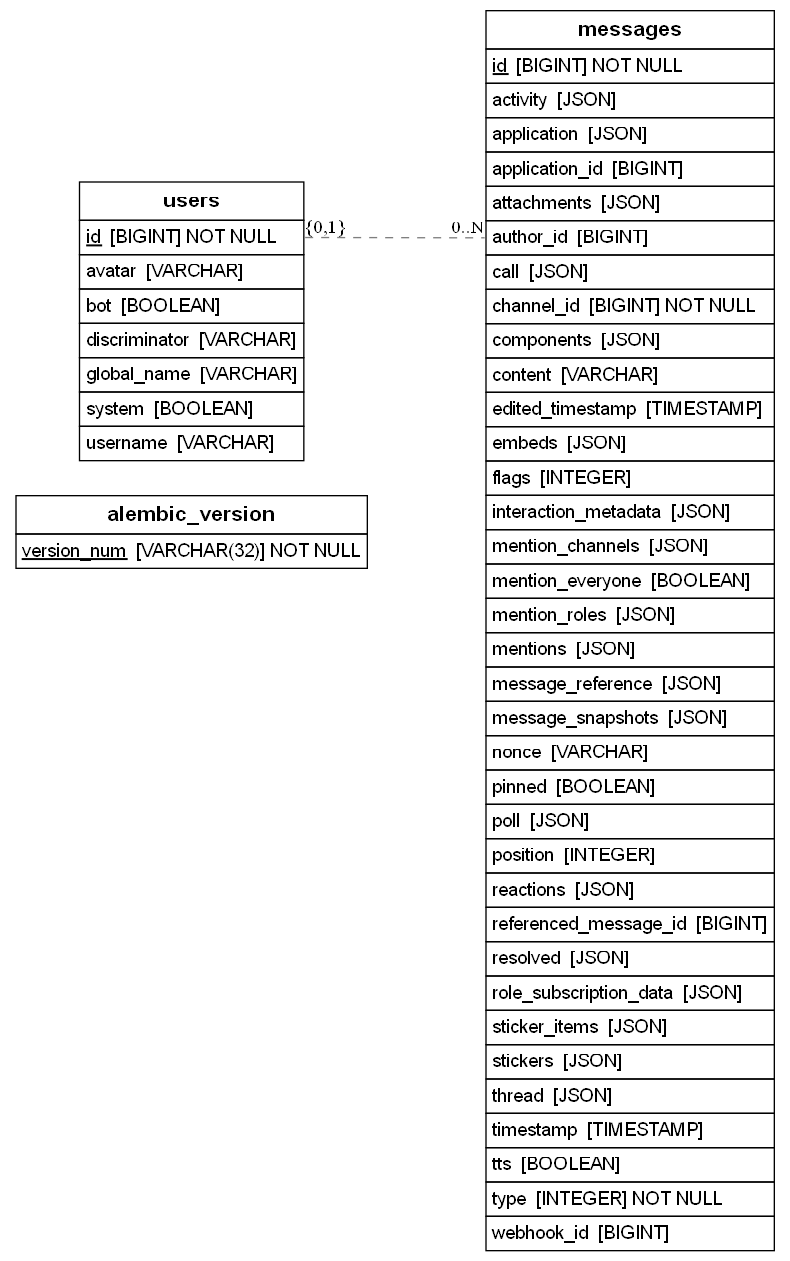
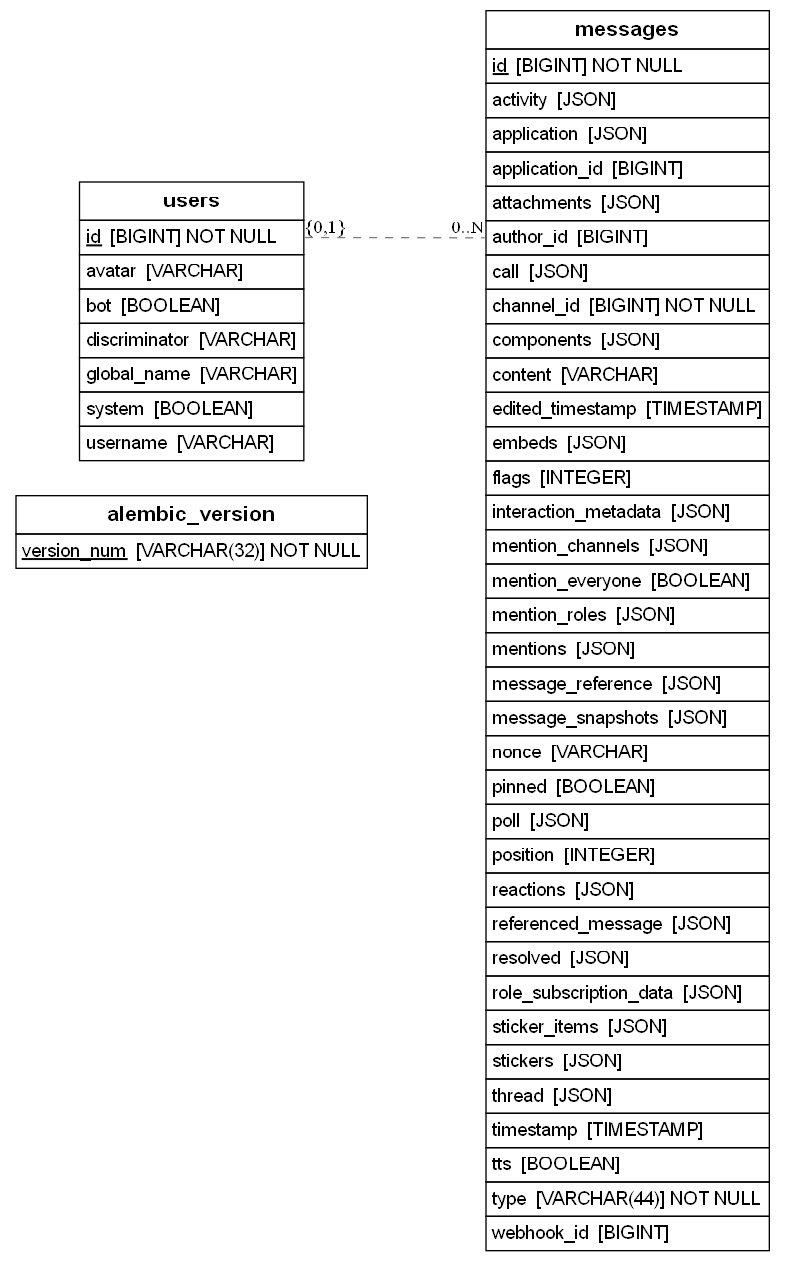
message reference

diff --git a/bot/utils/db_handler.py b/bot/utils/db_handler.py
@@ -1,9 +1,4 @@
-import sys
-from pathlib import Path
 import discord
-
-sys.path.insert(0, str(Path(__file__).parent.parent.parent))
-
 from sqlalchemy.future import select
 from db.connection import AsyncSessionLocal
 from db.queries.user import upsert_user
@@ -11,15 +6,16 @@ from db.queries.messages import create_message, update_message, delete_message
 from models.models import User, Message, MessageType
 from bot.utils.file_manager import download_attachment
 from datetime import datetime
+from .serialize_datetime import serialize_datetime
+
 
 async def handle_message_save(message: discord.Message):
-    """Save a message and its attachments to database."""
     if not message or not message.author:
         return
 
     async with AsyncSessionLocal() as db:
         try:
-            # Upsert user
+            # 1) Upsert user
             user_model = User(
                 id=int(message.author.id),
                 username=getattr(message.author, "name", None),
@@ -31,7 +27,7 @@ async def handle_message_save(message: discord.Message):
             )
             saved_user = await upsert_user(db, user_model)
 
-            # Save attachments
+            # 2) Save attachments
             attachments_list = []
             for attachment in message.attachments:
                 local_path, success = await download_attachment(
@@ -49,22 +45,77 @@ async def handle_message_save(message: discord.Message):
                     "is_downloaded": success,
                 })
 
-            message_type = getattr(message, "type", None)
-            if isinstance(message_type, int):
-                message_type = MessageType.DEFAULT
-            elif isinstance(message_type, str):
-                message_type = MessageType[message_type.upper()]
-            else:
-                message_type = MessageType.DEFAULT
+            # 3) Save embeds
+            embeds_list = [embed.to_dict() for embed in message.embeds]
 
+            # 4) Detect message type
+            raw_type = getattr(message, "type", None)
+            if isinstance(raw_type, int):
+                message_type = MessageType.DEFAULT
+            else:
+                try:
+                    message_type = MessageType[raw_type.name]
+                except:
+                    message_type = MessageType.DEFAULT
+
+            # 5) Handle message_reference and referenced_message
+            message_reference_data = getattr(message, "reference", None)
+            message_reference = None
+            referenced_message = None
+
+            if message_reference_data:
+                # Save reference IDs
+                message_reference = {
+                    "message_id": getattr(message_reference_data, "message_id", None),
+                    "channel_id": getattr(message_reference_data, "channel_id", None),
+                    "guild_id": getattr(message_reference_data, "guild_id", None),
+                    "fail_if_not_exists": getattr(message_reference_data, "fail_if_not_exists", True)
+                }
+
+                # Try getting full referenced message
+                ref_msg = getattr(message, "referenced_message", None)
+                if not ref_msg and message_reference.get("channel_id") and message_reference.get("message_id"):
+                    try:
+                        ref_channel = message.guild.get_channel(message_reference["channel_id"]) \
+                            or await message.guild.fetch_channel(message_reference["channel_id"])
+                        ref_msg = await ref_channel.fetch_message(message_reference["message_id"])
+                    except:
+                        ref_msg = None
+
+                if ref_msg:
+                    referenced_message = {
+                        "id": int(ref_msg.id),
+                        "channel_id": int(ref_msg.channel.id) if getattr(ref_msg, "channel", None) else None,
+                        "author": {
+                            "id": int(ref_msg.author.id),
+                            "username": getattr(ref_msg.author, "name", None),
+                            "discriminator": getattr(ref_msg.author, "discriminator", None),
+                            "global_name": getattr(ref_msg.author, "global_name", None),
+                            "avatar": str(ref_msg.author.avatar.url) if getattr(ref_msg.author, "avatar", None) else None,
+                            "bot": bool(getattr(ref_msg.author, "bot", False)),
+                            "system": bool(getattr(ref_msg.author, "system", False)),
+                        },
+                        "content": ref_msg.content,
+                        "attachments": [att.to_dict() for att in getattr(ref_msg, "attachments", [])],
+                        "embeds": [emb.to_dict() for emb in getattr(ref_msg, "embeds", [])],
+                        "timestamp": serialize_datetime(getattr(ref_msg, "created_at", None)),
+                        "edited_timestamp": serialize_datetime(getattr(ref_msg, "edited_at", None)),
+                        "type": getattr(ref_msg, "type", None).name if getattr(ref_msg, "type", None) else None
+                    }
+
+
+            # 6) Build message model
             message_model = Message(
                 id=int(message.id),
-                channel_id=int(message.channel.id) if getattr(message, "channel", None) else None,
+                channel_id=int(message.channel.id),
                 author_id=saved_user.id,
                 content=message.content,
                 attachments=attachments_list,
+                embeds=embeds_list,
                 type=message_type,
-                timestamp=getattr(message, "created_at", datetime.utcnow())
+                timestamp=getattr(message, "created_at", datetime.utcnow()),
+                message_reference=message_reference,
+                referenced_message=referenced_message
             )
 
             await create_message(db, message_model)
@@ -84,32 +135,84 @@ async def handle_message_update(message: discord.Message):
                 "edited_timestamp": getattr(message, "edited_at", datetime.utcnow()),
             }
 
-            # Update attachments if changed
-            if message.attachments:
-                attachments_list = []
-                for attachment in message.attachments:
-                    local_path, success = await download_attachment(
-                        attachment.url,
-                        attachment.filename,
-                        message.id
-                    )
-                    attachments_list.append({
-                        "id": attachment.id,
-                        "filename": attachment.filename,
-                        "url": attachment.url,
-                        "content_type": getattr(attachment, "content_type", None),
-                        "size": getattr(attachment, "size", None),
-                        "local_path": local_path if success else None,
-                        "is_downloaded": success,
-                    })
-                updates["attachments"] = attachments_list
+            # --- Update attachments ---
+            attachments_list = []
+            for attachment in message.attachments:
+                local_path, success = await download_attachment(
+                    attachment.url,
+                    attachment.filename,
+                    message.id
+                )
+                attachments_list.append({
+                    "id": attachment.id,
+                    "filename": attachment.filename,
+                    "url": attachment.url,
+                    "content_type": getattr(attachment, "content_type", None),
+                    "size": getattr(attachment, "size", None),
+                    "local_path": local_path if success else None,
+                    "is_downloaded": success,
+                })
+            updates["attachments"] = attachments_list
 
-            await update_message(db, message_id=int(message.id), author_id=int(message.author.id), updates=updates)
+            # --- Update embeds ---
+            embeds_list = [embed.to_dict() for embed in message.embeds]
+            updates["embeds"] = embeds_list
+
+            # --- Update message_reference and referenced_message ---
+            message_reference_data = getattr(message, "reference", None)
+            if message_reference_data:
+                message_reference = {
+                    "message_id": getattr(message_reference_data, "message_id", None),
+                    "channel_id": getattr(message_reference_data, "channel_id", None),
+                    "guild_id": getattr(message_reference_data, "guild_id", None),
+                    "fail_if_not_exists": getattr(message_reference_data, "fail_if_not_exists", True)
+                }
+                updates["message_reference"] = message_reference
+
+                # Try fetching referenced message
+                ref_msg = getattr(message, "referenced_message", None)
+                if not ref_msg and message_reference.get("channel_id") and message_reference.get("message_id"):
+                    try:
+                        ref_channel = message.guild.get_channel(message_reference["channel_id"]) \
+                            or await message.guild.fetch_channel(message_reference["channel_id"])
+                        ref_msg = await ref_channel.fetch_message(message_reference["message_id"])
+                    except:
+                        ref_msg = None
+
+                if ref_msg:
+                    referenced_message = {
+                        "id": int(ref_msg.id),
+                        "channel_id": int(ref_msg.channel.id) if getattr(ref_msg, "channel", None) else None,
+                        "author": {
+                            "id": int(ref_msg.author.id),
+                            "username": getattr(ref_msg.author, "name", None),
+                            "discriminator": getattr(ref_msg.author, "discriminator", None),
+                            "global_name": getattr(ref_msg.author, "global_name", None),
+                            "avatar": str(ref_msg.author.avatar.url) if getattr(ref_msg.author, "avatar", None) else None,
+                            "bot": bool(getattr(ref_msg.author, "bot", False)),
+                            "system": bool(getattr(ref_msg.author, "system", False)),
+                        },
+                        "content": ref_msg.content,
+                        "attachments": [att.to_dict() for att in getattr(ref_msg, "attachments", [])],
+                        "embeds": [emb.to_dict() for emb in getattr(ref_msg, "embeds", [])],
+                        "timestamp": serialize_datetime(getattr(ref_msg, "created_at", None)),
+                        "edited_timestamp": serialize_datetime(getattr(ref_msg, "edited_at", None)),
+                        "type": getattr(ref_msg, "type", None).name if getattr(ref_msg, "type", None) else None
+                    }
+                    updates["referenced_message"] = referenced_message
+
+            # Save updates
+            await update_message(
+                db,
+                message_id=int(message.id),
+                author_id=int(message.author.id),
+                updates=updates
+            )
+
             print(f"Message {message.id} updated successfully.")
 
         except Exception as e:
             print(f"Error updating message: {e}")
-
 
 async def handle_message_delete(message: discord.Message):
     if not message or not message.author:

diff --git a/bot/utils/file_manager.py b/bot/utils/file_manager.py
@@ -1,28 +1,12 @@
-"""
-File manager - Download and store Discord attachments locally
-Prevents attachment URLs from expiring
-"""
 import aiohttp
 import os
 from pathlib import Path
 from datetime import datetime
 
-# Create attachments directory if it doesn't exist
 ATTACHMENTS_DIR = Path(__file__).parent.parent / "attachments"
 ATTACHMENTS_DIR.mkdir(exist_ok=True)
 
 async def download_attachment(url: str, filename: str, message_id: int) -> tuple[str, bool]:
-    """
-    Download a Discord attachment and store it locally
-    
-    Args:
-        url: Discord attachment URL
-        filename: Original filename
-        message_id: Discord message ID (for organizing files)
-    
-    Returns:
-        tuple: (local_path, success_bool)
-    """
     try:
         # Create message-specific directory
         msg_dir = ATTACHMENTS_DIR / f"msg_{message_id}"
@@ -53,7 +37,6 @@ async def download_attachment(url: str, filename: str, message_id: int) -> tuple
         return "", False
 
 def get_attachment_path(message_id: int, filename: str) -> Path:
-    """Get the local path for an attachment"""
     msg_dir = ATTACHMENTS_DIR / f"msg_{message_id}"
     safe_filename = "".join(c for c in filename if c.isalnum() or c in "._-")
     return msg_dir / safe_filename
@@ -64,30 +47,3 @@ def get_attachment_size(local_path: str) -> int:
         return os.path.getsize(local_path)
     except:
         return 0
-
-def cleanup_old_attachments(days: int = 30) -> int:
-    """
-    Remove attachments older than specified days
-    
-    Args:
-        days: Number of days to keep attachments
-    
-    Returns:
-        Number of files deleted
-    """
-    if not ATTACHMENTS_DIR.exists():
-        return 0
-    
-    deleted_count = 0
-    cutoff_time = datetime.now().timestamp() - (days * 86400)
-    
-    for file_path in ATTACHMENTS_DIR.rglob("*"):
-        if file_path.is_file():
-            if file_path.stat().st_mtime < cutoff_time:
-                try:
-                    file_path.unlink()
-                    deleted_count += 1
-                except:
-                    pass
-    
-    return deleted_count

diff --git a/migrations/versions/695bcf2b0305_message_reference_reply.py b/migrations/versions/695bcf2b0305_message_reference_reply.py
@@ -1,0 +1,34 @@
+"""message reference(reply)
+
+Revision ID: 695bcf2b0305
+Revises: cc07737c7f38
+Create Date: 2025-11-20 15:14:06.498659
+
+"""
+from typing import Sequence, Union
+
+from alembic import op
+import sqlalchemy as sa
+
+
+# revision identifiers, used by Alembic.
+revision: str = '695bcf2b0305'
+down_revision: Union[str, Sequence[str], None] = 'cc07737c7f38'
+branch_labels: Union[str, Sequence[str], None] = None
+depends_on: Union[str, Sequence[str], None] = None
+
+
+def upgrade() -> None:
+    """Upgrade schema."""
+    # ### commands auto generated by Alembic - please adjust! ###
+    op.add_column('messages', sa.Column('referenced_message', sa.JSON(), nullable=True))
+    op.drop_column('messages', 'referenced_message_id')
+    # ### end Alembic commands ###
+
+
+def downgrade() -> None:
+    """Downgrade schema."""
+    # ### commands auto generated by Alembic - please adjust! ###
+    op.add_column('messages', sa.Column('referenced_message_id', sa.BIGINT(), autoincrement=False, nullable=True))
+    op.drop_column('messages', 'referenced_message')
+    # ### end Alembic commands ###

diff --git a/bot/commands/embed.py b/bot/commands/embed.py
@@ -1,0 +1,15 @@
+from discord.ext import commands
+import discord
+
+@commands.command()
+async def embed(ctx):
+    embed = discord.Embed(
+        title="Hello!",
+        description="This is an embed example.",
+        color=discord.Color.blue()
+    )
+    embed.add_field(name="Field 1", value="Value 1", inline=False)
+    embed.set_footer(text="Footer text")
+    embed.set_thumbnail(url="https://example.com/image.png")
+
+    await ctx.send(embed=embed)

diff --git a/models/models.py b/models/models.py
@@ -111,7 +111,7 @@ class Message(Base):
     flags = Column(Integer, nullable=True)
 
     message_reference = Column(MutableDict.as_mutable(JSON), nullable=True)
-    referenced_message_id = Column(BigInteger, nullable=True)
+    referenced_message = Column(MutableDict.as_mutable(JSON), nullable=True) 
     interaction_metadata = Column(MutableDict.as_mutable(JSON), nullable=True)
 
     components = Column(JSON, nullable=True)

diff --git a/bot/commands/__init__.py b/bot/commands/__init__.py
@@ -1,8 +1,10 @@
 from .ask import ask
 from .askfile import askfile
-
+from .embed import embed
+from .list import list
 
 def setup_commands(bot):
-    """Register all commands in a clean way."""
     bot.add_command(ask)
     bot.add_command(askfile)
+    bot.add_command(embed)
+    bot.add_command(list)

diff --git a/bot/utils/serialize_datetime.py b/bot/utils/serialize_datetime.py
@@ -1,0 +1,6 @@
+from datetime import datetime
+
+def serialize_datetime(obj):
+    if isinstance(obj, datetime):
+        return obj.isoformat()
+    return obj

diff --git a/bot/commands/list.py b/bot/commands/list.py
@@ -1,0 +1,6 @@
+from discord.ext import commands
+import discord
+
+@commands.command()
+async def list(ctx):
+    await ctx.send("This is lsit command")
